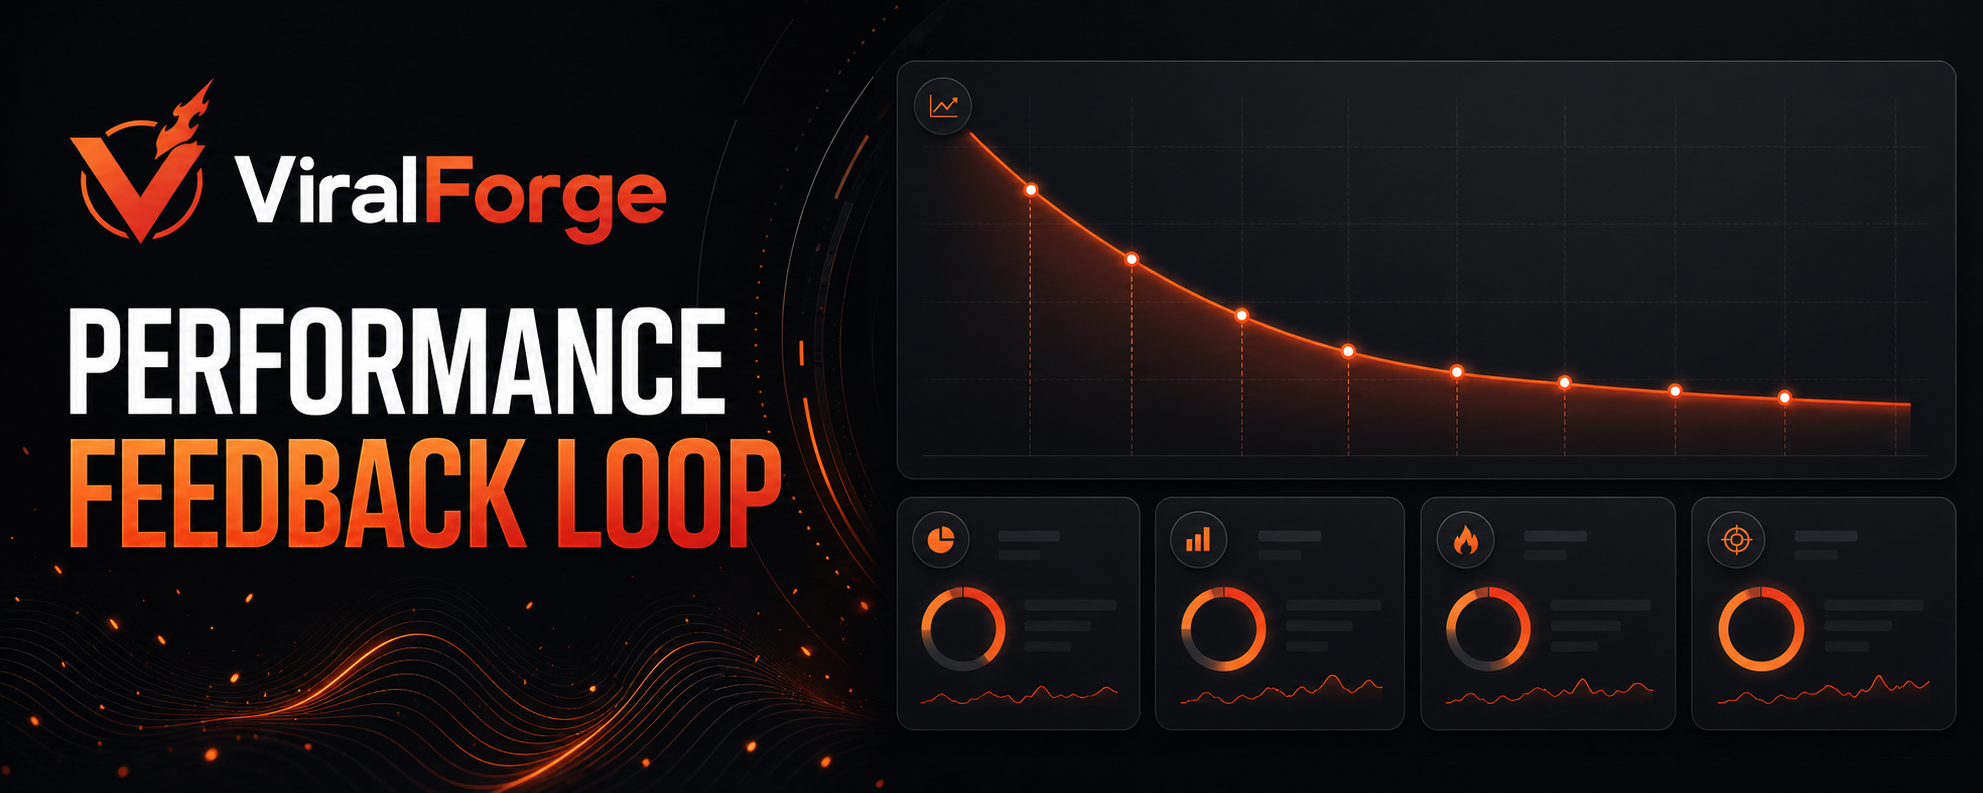
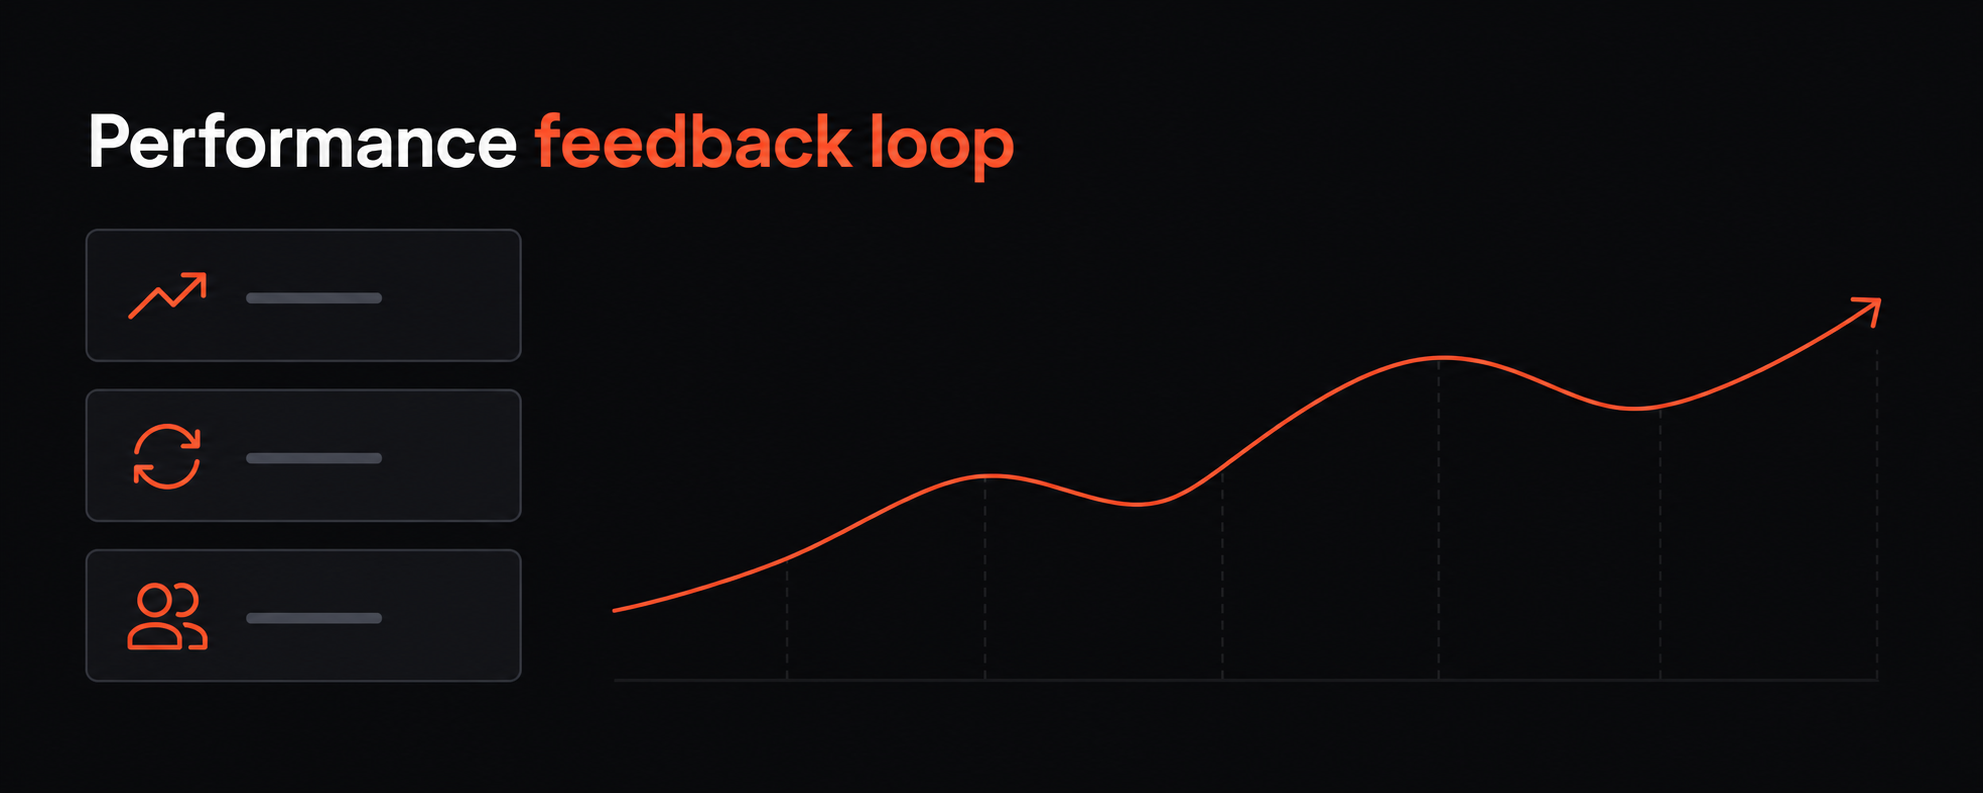
Refine Discord branding to quiet SaaS style

diff --git a/DISCORD_PREMIUM_SETUP_REPORT.md b/DISCORD_PREMIUM_SETUP_REPORT.md
@@ -5,14 +5,14 @@
 - Replaced the former broad community/control-plane layout with eight concise categories: Start Here, Platform, Workspaces, Content Ops, Customers, Community, Team, and Private Requests.
 - Added 24 intentional channels, including forum channels for discoveries, case studies, feature requests, and staff customer review.
 - Added professional staff, customer, workspace, and notification roles with restrained forge-themed colors.
-- Added 15 managed product panels with an eyebrow, concise description, up to four fields, a VF thumbnail, a branded wide image, and contextual actions.
+- Added 15 managed product panels with an eyebrow, concise description, up to four fields, a VF thumbnail, a flat branded wide image, and contextual actions.
 - Added persistent Rules, onboarding, support-ticket, and feature-request interactions. Ticket channels remain private to the requester and configured staff roles.
 - Added the owner-only `/setup` command alongside `/admin setup-server`. Both create or refresh only ViralForge-managed resources, update managed panels, preserve unrelated channels and messages, and do not duplicate known resources.
 - Added configuration-backed rotating bot presence. Discord bot presences do not support application rich-presence images or buttons; the requested asset keys are retained in `config/discord/branding.yml` for Developer Portal configuration.
 
 ## Brand assets
 
-Generated and attached original assets:
+Generated and attached original flat SaaS assets:
 
 - Command Center / Welcome
 - How It Works

diff --git a/assets/discord/viralforge/ASSET_MANIFEST.md b/assets/discord/viralforge/ASSET_MANIFEST.md
@@ -15,9 +15,9 @@ All files in this directory are original ViralForge community artwork. They are 
 | `status-banner.png` | `#platform-status` | 2048×682 |
 | `bodycams-daily-hq-thumbnail.png` | private BodycamsDailyHQ surface | 1254×1254 |
 
-## Premium setup assets
+## Current flat SaaS setup assets
 
-The current Discord setup uses the following generated assets. Each is an original raster asset attached to its matching Discord panel; no asset relies on an external URL.
+The current Discord setup uses a flat, quiet SaaS visual system: clean dark space, thin neutral borders, simple line diagrams, and limited red-orange emphasis. Each is an original raster attachment; no asset relies on an external URL.
 
 | Asset | Discord use |
 | --- | --- |
